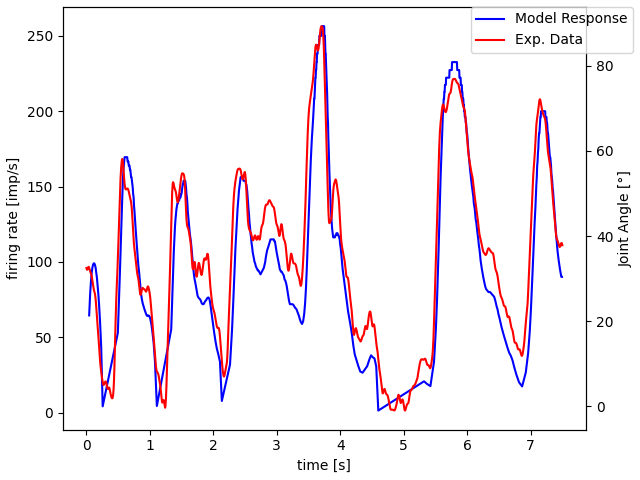
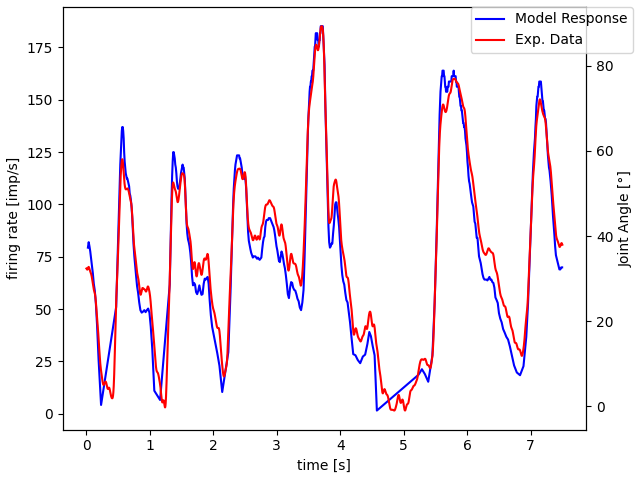
-

diff --git a/run_primitive.py b/run_primitive.py
@@ -7,39 +7,33 @@ from class_hair_field import HairField
 from plots import *
 from functions import *
 
-N_simulations = 2
+N_simulations = 50
+w_pos = [12e-3, 0, 10e-3, 11e-3, 6e-3]
+w_vel = [13.5e-3, 13.5e-3, 0, 13.5e-3, 13.5e-3]
+colors = ['blue', 'black', 'green', 'yellow', 'orange']
 
-true_positive, false_positive = np.empty((N_simulations, 60)), np.empty((N_simulations, 60))
+permutations, synapse_type, weights_primitive, primitive_filter, primitive_filter_2 = get_encoding(w_pos, w_vel)
+true_positive, false_positive, true_negative, false_negative = [np.empty((N_simulations, 60)) for _ in range(4)]
 
-for k in range(N_simulations):
+data = pickle_open('simulation_data')
 
-    N_sims = 3
-    colors = ['r', 'g', 'b', 'black', 'purple', 'purple']
-    w_pos = [2e-3, 0, 10e-3, 10e-3, 6e-3]
-    w_vel = [19e-3, 19e-3, 0, 8e-3, 8e-3]
+for k in tqdm(range(N_simulations)):
+    ground_truth = np.zeros([12, 75000])
 
-    #w_pos = [12e-3, 0, 13e-3, 11e-3, 8e-3]
-    #w_vel = [13.5e-3, 13e-3, 0, 12.5e-3, 13.5e-3]
-
-    permutations, synapse_type, weights_primitive, primitive_filter, primitive_filter_2 = get_encoding(w_pos, w_vel)
-
-    data = pickle_open('simulation_data')
-
-    joint_angle = np.array(data[f'simulation_{k}'][:N_sims]).T
+    joint_angle = np.array(data[f'simulation_{k}'][:3]).T
 
     parameters = Parameters(max_joint_angle=np.amax(joint_angle, axis=0), min_joint_angle=np.amin(joint_angle, axis=0),
-                            N_hairs=20, t_total=7.5, dt=0.0003, N_sims=N_sims)
+                            N_hairs=20, t_total=4, dt=0.0001, N_sims=3)
     parameters.position['N_input'] = int(parameters.position['N_input']/2)
     parameters.primitive['w'] = weights_primitive
 
     joint_angle = joint_angle[:parameters.general['N_frames']]
-    joint_angles = np.empty((parameters.general['N_steps'], N_sims))
-    hair_angles = np.empty((parameters.general['N_steps'], 2*N_sims*parameters.hair_field['N_hairs']))
+    joint_angles = np.empty((parameters.general['N_steps'], parameters.general['N_sims']))
+    hair_angles = np.empty((parameters.general['N_steps'], 2*parameters.general['N_sims']*parameters.hair_field['N_hairs']))
 
-    ground_truth = np.zeros([12, 75000])
-
-    for i in range(N_sims):
+    for i in range(parameters.general['N_sims']):
         joint_angles[:, i] = interpolate(joint_angle[:, i], parameters.general['t_total'], parameters.general['N_steps'])
+
         mid = np.max(joint_angles[:, i])/2 + np.min(joint_angles[:, i])/2
         diff = np.diff(joint_angles[:, i])
         ground_truth[0 + 4 * i, np.where(diff > 0)] = 1
@@ -68,7 +62,7 @@ for k in range(N_simulations):
     permutations = get_primitive_indexes(1)
     spike_timings = torch.empty([parameters.general['N_steps'], parameters.primitive['n']])
 
-    for i in tqdm(range(parameters.general['N_steps'])):
+    for i in range(parameters.general['N_steps']):
         _, spike_sensory[i, :] = sensory_neuron.forward(hair_angles[i, :])
 
         reshaped_spikes = torch.reshape(spike_sensory[i, :], (parameters.velocity['n'], (parameters.hair_field['N_hairs'])))
@@ -79,6 +73,7 @@ for k in range(N_simulations):
         pos_vel_spikes = torch.concat((spike_velocity[i, [0, 1]], spike_position[i, [0, 1]],
                                       spike_velocity[i, [2, 3]], spike_position[i, [2, 3]],
                                       spike_velocity[i, [4, 5]], spike_position[i, [4, 5]]))
+
         pos_vel_spikes = pos_vel_spikes[permutations].reshape((parameters.primitive['n'], 3))*primitive_filter_2
         ground_truth_i = ground_truth[permutations, i].reshape((parameters.primitive['n'], 3))*primitive_filter_2
         #spike_combinations = torch.sum(pos_vel_spikes + primitive_filter, dim=1) / 3
@@ -90,45 +85,35 @@ for k in range(N_simulations):
 
         time = np.append(time, i * parameters.sensory['dt'])
 
+    spike_primitive = convert_to_bins(spike_primitive.numpy(), 100)
+    spike_timings = convert_to_bins(spike_timings.numpy(), 100)
 
+    for i in range(60):
+        intersect = spike_primitive[:, i] + spike_timings[:, i]
+        difference = spike_primitive[:, i] - spike_timings[:, i]
 
-    #plt.plot(time, joint_angles[:, 0])
-    #plt.scatter(time, joint_angles[:, 0]*spike_position[:, 0].numpy())
-    #plt.scatter(time, joint_angles[:, 0]*spike_velocity[:, 1].numpy())
-    #plt.show()
-    for i in range(0, 60):
-        intersect = spike_primitive.numpy()[:, i] + spike_timings.numpy()[:, i]
-        difference = spike_primitive.numpy()[:, i] - spike_timings.numpy()[:, i]
         true_positive[k, i] = intersect[intersect > 1.5].size
         false_positive[k, i] = difference[difference > 0.5].size
+        true_negative[k, i] = intersect[intersect < 0.5].size
+        false_negative[k, i] = difference[difference < -0.5].size
 
-        #print(true_positive[, ki], false_positive[i], synapse_type[i])
-        #print(true_positive/(true_positive + false_positive + 1), false_positive/(false_positive + true_positive + 1))
-        #
+fig, ax = plt.subplots()
 
 for i in range(60):
     true_pos_sum = np.sum(true_positive, axis=0)
     false_pos_sum = np.sum(false_positive, axis=0)
-    plt.scatter(i, true_pos_sum[i]/(true_pos_sum[i] + false_pos_sum[i] + 0.00001), color=colors[synapse_type[i]])
+    true_neg_sum = np.sum(true_negative, axis=0)
+    false_neg_sum = np.sum(false_negative, axis=0)
+    plt.scatter(false_pos_sum[i]/(false_pos_sum[i] + true_neg_sum[i] + 0.0000001),
+                true_pos_sum[i]/(true_pos_sum[i] + false_neg_sum[i] + 0.0000001), color=colors[synapse_type[i]])
 
-plt.show()
-
-#intersect = spike_primitive.numpy() + spike_timings.numpy()
-#difference = spike_primitive.numpy() - spike_timings.numpy()
-#true_positive = intersect[intersect > 1.5].size
-#false_positive = difference[difference > 0.5].size
-
-print((np.sum(true_positive, axis=0)/(0.00001+np.sum(true_positive, axis=0)+np.sum(false_positive, axis=0))))
+plt.plot([0, 1], [0, 1], color='red', linestyle='dotted')
+plot_primitive_interneuron(ax, fig)
 
 
 for i in range(10, 60):
     print(synapse_type[i])
-    #plt.scatter(time, 50*spike_velocity[:, 0]*spike_position[:, 0], s=1)
-    plt.scatter(time, 12*spike_timings[:, i], s=1)
-    plt.scatter(time, 25*spike_primitive[:, i], s=1)
-    #plt.scatter(time, 15*spike_velocity[:, 0], s=1)
-    #plt.scatter(time, 7.5*spike_position[:, 0], s=1)
-    #print(permutations)
-
+    plt.scatter(np.linspace(0, 10, num=100), 12*spike_timings[:, i], s=1)
+    plt.scatter(np.linspace(0, 10, num=100), 25*spike_primitive[:, i], s=1)
 
     plt.show()

diff --git a/dictionaries.py b/dictionaries.py
@@ -12,18 +12,18 @@ class Parameters:
         self.hair_field = {'N_hairs': N_hairs, 'min_joint_angle': min_joint_angle,
                            'max_joint_angle': max_joint_angle, 'max_angle': 90, 'overlap': 0, 'overlap_bi': 0}
 
-        self.sensory = {'C': 200e-12, 'g_L': 12e-9, 'E_L': -70e-3, 'DeltaT': 2e-3, 'a': 2e-9, 'V_T': -50e-3,
-                                'tau_W': 600e-3, 'b': 8e-12, 'V_R': -70e-3, 'V_cut': -40e-3, 'refrac': 0.00,
+        self.sensory = {'C': 200e-12, 'g_L': 2e-9, 'E_L': -70e-3, 'DeltaT': 2e-3, 'a': 4e-9, 'V_T': -50e-3,
+                                'tau_W': 300e-3, 'b': 8e-12, 'V_R': -70e-3, 'V_cut': -40e-3, 'refrac': 0.00,
                                 'n': 2 * N_hairs * N_sims, 'dt': dt}
 
-        self.position = {'E_L': -70e-3, 'V_T': -50e-3, 'tau': 50e-3, 'tau_W': 10e-3, 'tau_epsp': 50e-3, 'b': 10e-3,
+        self.position = {'E_L': -70e-3, 'V_T': -50e-3, 'tau': 80e-3, 'tau_W': 5e-3, 'tau_epsp': 6e-3, 'b': 10e-3,
                                'V_R': -70e-3, 'n': 2 * N_sims, 'N_input': N_hairs, 'dt': dt, 'refrac': 0}
 
         self.velocity = {'tau': 5e-3, 'tau_G': 200e-3, 'G_r': 25e-3, 'p': 0.1, 'V_T': -50e-3,
                                       'V_R': -70e-3, 'n': 2 * N_sims, 'N_input': N_hairs,
                                       'dt': dt, 'refrac': 0}
 
-        self.primitive = {'tau': 1e-3, 'V_T': -50e-3, 'V_R': -70e-3, 'n': 60, 'w': 0,
+        self.primitive = {'tau': 3e-3, 'V_T': -50e-3, 'V_R': -70e-3, 'n': 60, 'w': 0,
                           'N_input': 3, 'dt': dt, 'refrac': 0}
 
 

diff --git a/test.py b/test.py
@@ -7,13 +7,25 @@ from class_hair_field import HairField
 from plots import *
 from functions import *
 
-N_sims = 3
 
-w_pos = [12e-3, 0, 13e-3, 11e-3, 8e-3]
-w_vel = [13.5e-3, 13e-3, 0, 12.5e-3, 13.5e-3]
+def convert_to_bins(old_array, n_bins):
+    n_steps = old_array.shape[0]
+    n_steps_bin = int(n_steps / n_bins)
+    new_array = np.empty((n_bins, old_array.shape[1]), dtype=int)
 
-permutations, synapse_type, weights_primitive, primitive_filter, primitive_filter_2 = get_encoding(w_pos, w_vel)
+    for j in range(new_array.shape[1]):
+        for i in range(n_bins):
+            elements = old_array[n_steps_bin*i:n_steps_bin*(i+1), j]
+            elements[elements == 0] = False
+            if np.any(elements):
+                new_array[i, j] = 1
+            else:
+                new_array[i, j] = 0
 
-for i in range(60):
-    print(permutations[i], synapse_type[i])
+    return new_array
+
+
+array = np.random.choice([1, 0], size=(10, 10), p=[1./10, 9./10])
+new_array = convert_to_bins(array, 2)
+
 

diff --git a/plots.py b/plots.py
@@ -1,6 +1,7 @@
 import matplotlib.pyplot as plt
 import os
 import numpy as np
+from matplotlib.lines import Line2D
 
 if not os.path.exists("Images"):
     os.makedirs("Images")
@@ -95,6 +96,24 @@ def plot_movement_interneuron_network(ax, fig):
     fig.legend(['Stimulus', 'Up', 'Down'])
     fig.tight_layout(pad=0.5)
     fig.savefig('Images/movement_interneuron_network.png')
+    fig.clear()
+
+    return
+
+
+def plot_primitive_interneuron(ax, fig):
+    colors = ['blue', 'black', 'green', 'yellow', 'purple']
+    labels = ['vel-pos', 'vel-vel', 'pos-pos', 'pos-vel-vel', 'vel-pos-pos']
+
+    legend_elements = [Line2D([0], [0], marker='o', color='w', label=labels[i], markerfacecolor=colors[i], markersize=7)
+                       for i in range(5)]
+
+    ax.set_xlabel("False Positive Rate")
+    ax.set_ylabel("True Positive Rate")
+    ax.legend(handles=legend_elements, loc='lower right')
+
+    fig.tight_layout(pad=0.5)
+    fig.savefig('Images/primitive_interneuron')
     fig.clear()
 
     return

diff --git a/functions.py b/functions.py
@@ -91,3 +91,20 @@ def smooth_function(inp, sig = 5):
     smoothed = img.gaussian_filter1d(inp, sig)
     smoothStretch = minOrig + (((smoothed-min(smoothed))*(maxOrig-minOrig))/(max(smoothed)-min(smoothed)))
     return smoothStretch
+
+
+def convert_to_bins(old_array, n_bins):
+    n_steps = old_array.shape[0]
+    n_steps_bin = int(n_steps / n_bins)
+    new_array = np.empty((n_bins, old_array.shape[1]), dtype=int)
+
+    for j in range(new_array.shape[1]):
+        for i in range(n_bins):
+            elements = old_array[n_steps_bin*i:n_steps_bin*(i+1), j]
+            elements[elements == 0] = False
+            if np.any(elements):
+                new_array[i, j] = 1
+            else:
+                new_array[i, j] = 0
+
+    return new_array

diff --git a/run_position_uni.py b/run_position_uni.py
@@ -11,7 +11,7 @@ data = pickle_open('simulation_data')
 joint_angle = np.array(data[f'simulation_3'][0]).T
 
 parameters = Parameters(max_joint_angle=np.max(joint_angle), min_joint_angle=np.min(joint_angle),
-                        N_hairs=10, t_total=7.5, dt=0.0001, N_sims=1)
+                        N_hairs=20, t_total=7.5, dt=0.0001, N_sims=1)
 
 joint_angle = joint_angle[:parameters.general['N_frames']]
 joint_angle = interpolate(joint_angle, parameters.general['t_total'], parameters.general['N_steps'])

diff --git a/class_position_neuron.py b/class_position_neuron.py
@@ -77,8 +77,8 @@ class LIF(nn.Module):
         I = self.state.I
 
         w += input*self.b
+        V += self.dt * (torch.sum(I, dim=1) - V + self.V_R) / self.tau
         I += self.dt*(w-I)/self.tau_epsp
-        V += self.dt*(torch.sum(I, dim=1)-V+self.V_R)/self.tau
         w += -self.dt*w/self.tau_W
 
         spk = activation(V - self.V_T)
